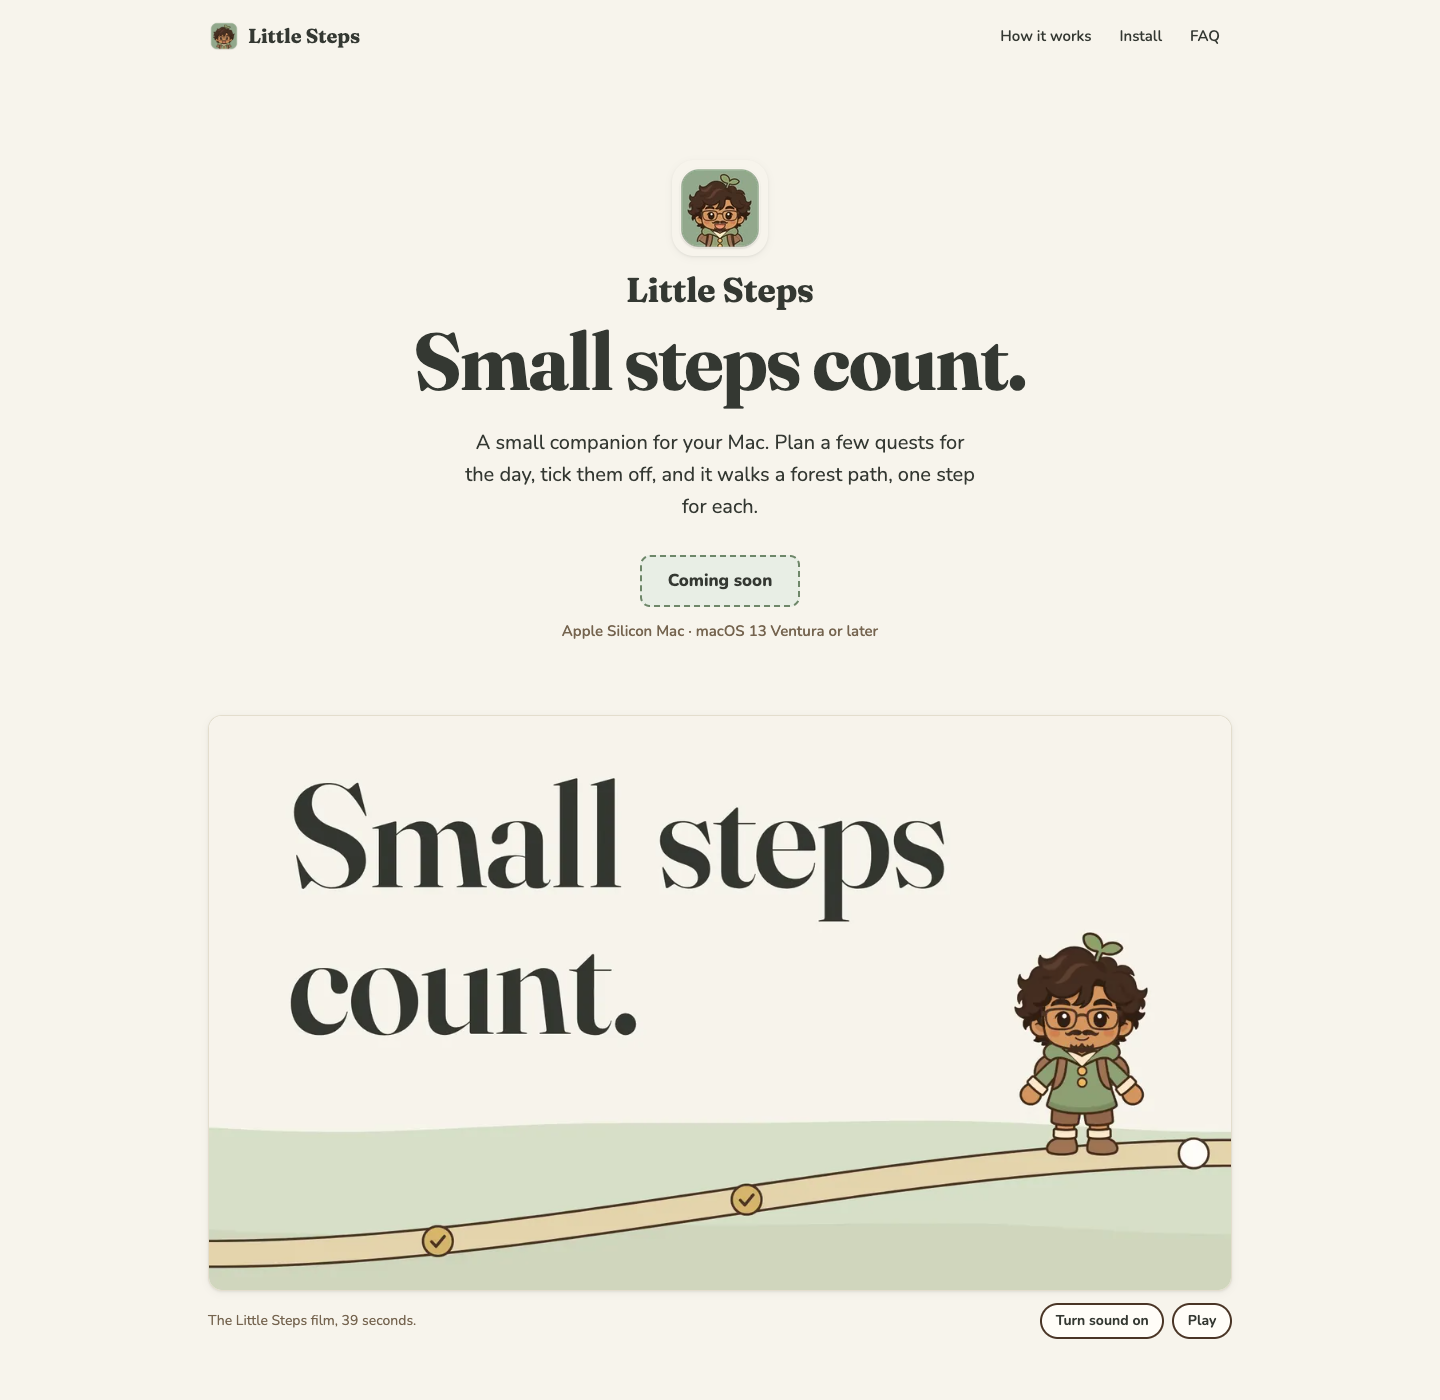
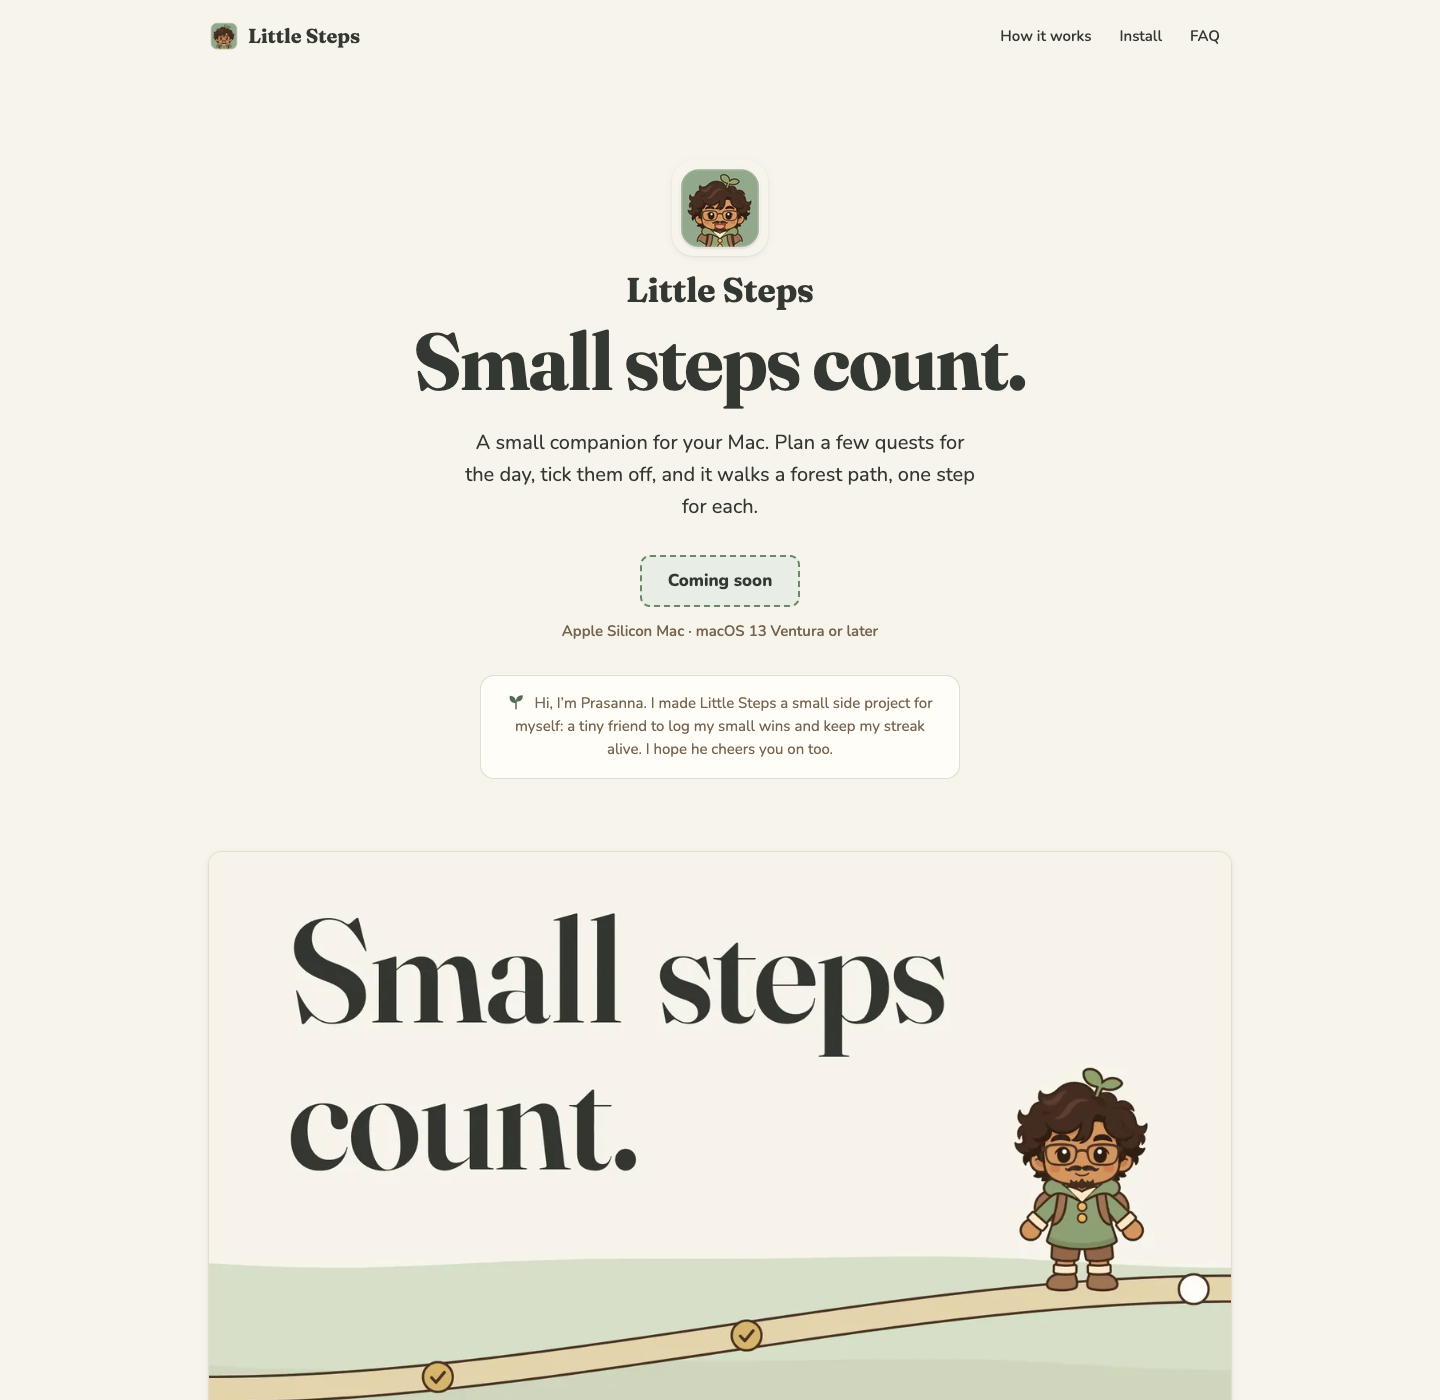
Hero: a short personal note under the Download area
A small Soft Ivory card with the app's menu-bar sprout in Forest Green (built from the app's
tray icon by tools/build_assets.py). Left-aligned on phones, centred from 768 px; Text Brown on
Soft Ivory, 5.59:1. Hero screenshots at 390 and 1440 px refreshed.

Changed region(s): [[0.125, 0.645, 0.875, 1.0], [0.1875, 0.5529, 0.6562, 0.7679], [0.3438, 0.4914, 0.6562, 0.5529]]

diff --git a/assets/css/site.css b/assets/css/site.css
@@ -299,6 +299,30 @@ pre code {
   font-weight: var(--weight-medium);
 }
 
+/* A short note from the maker, under the Download area: left-aligned on phones, centred from 768 px. */
+.maker-note {
+  max-width: 30rem;
+  margin: var(--space-6) auto 0;
+  padding: var(--space-4) var(--space-5);
+  border-radius: var(--radius-card);
+  background: var(--color-soft-ivory);
+  border: 1px solid var(--color-hairline);
+  text-align: left;
+  font-size: 0.9375rem;
+  line-height: 1.55;
+  color: var(--color-text-brown);
+}
+.maker-note img {
+  display: inline-block;
+  vertical-align: -0.2em;
+  margin-right: 0.35em;
+}
+@media (min-width: 768px) {
+  .maker-note {
+    text-align: center;
+  }
+}
+
 /* The film: 4:5 on phones, 16:9 from 768 px. The poster is a <picture> under the video, so each
    shape gets its own frame; the video is shown once it plays. */
 .film {

diff --git a/index.html b/index.html
@@ -66,6 +66,10 @@
             <button class="button button--soon" type="button" disabled data-download>Coming soon</button>
             <p class="cta-note">Apple Silicon Mac · macOS 13 Ventura or later</p>
           </div>
+          <p class="maker-note">
+            <img src="assets/img/sprout-36.png" width="18" height="18" alt="" />
+            <span>Hi, I’m Prasanna. I made Little Steps a small side project for myself: a tiny friend to log my small wins and keep my streak alive. I hope he cheers you on too.</span>
+          </p>
 
           <figure class="film" aria-labelledby="film-caption">
             <div class="film-frame">

diff --git a/tools/build_assets.py b/tools/build_assets.py
@@ -65,6 +65,14 @@ def icons() -> None:
             save_webp(big.resize((size, size), Image.LANCZOS), IMG / f"app-icon-{size}.webp", 90)
 
 
+def sprout() -> None:
+    """The app's menu-bar sprout (a black template image) in Forest Green, for the hero note."""
+    tray = Image.open(APP / "assets/tray/trayTemplate@2x.png").convert("RGBA")
+    green = Image.new("RGBA", tray.size, (0x52, 0x6B, 0x55, 255))
+    green.putalpha(tray.getchannel("A"))
+    green.save(IMG / "sprout-36.png", optimize=True)
+
+
 # ---------------------------------------------------------------- captures
 # Crop boxes in the app's CSS pixels (captures are 1000 x 900 at 4x, docs/capture-plan.md in the
 # launch repo). Plan boxes come from the capture manifest (plan x 70, y 93, width 616).
@@ -149,7 +157,11 @@ def main() -> None:
     if sys.argv[1:] == ["posters"]:  # only the hero posters and the Open Graph image
         hero_posters()
         return
+    if sys.argv[1:] == ["sprout"]:
+        sprout()
+        return
     icons()
+    sprout()
     captures()
     hero()
     loops()

diff --git a/tools/contrast.py b/tools/contrast.py
@@ -29,6 +29,7 @@ TEXT = [
     ("color-charcoal", "color-pale-sage", "body text in sage sections, Coming soon label"),
     ("color-charcoal", "color-soft-ivory", "cards, notes, small buttons, code"),
     ("color-text-brown", "color-warm-cream", "footer, CTA note, film caption"),
+    ("color-text-brown", "color-soft-ivory", "the maker note in the hero"),
     ("color-text-brown", "color-pale-sage", "fine print in the companion section"),
     ("color-forest-green", "color-warm-cream", "links, eyebrows"),
     ("color-forest-green", "color-pale-sage", "eyebrows, summary in sage sections"),
